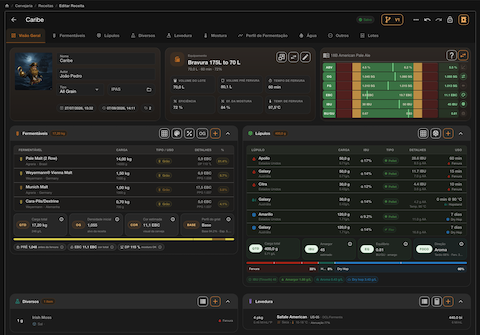
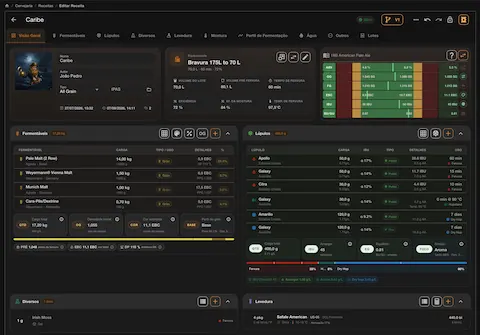
more improvements for better code

diff --git a/src/views/MarketingPage.vue b/src/views/MarketingPage.vue
@@ -10,7 +10,7 @@ import { localeCode, localeFromPath, localizedPath } from '../types'
 import ProductScreenshotPlaceholder from '../components/ProductScreenshotPlaceholder.vue'
 import PricingPlanCards from '../components/PricingPlanCards.vue'
 import logo from '../assets/logo-brew-right-full.webp'
-import brewStamp from '../assets/logo.webp'
+import brewStamp from '../assets/logo-stamp.webp'
 import recipeCardArt from '../assets/back-recipe.webp'
 import inventoryCardArt from '../assets/back-inventory.webp'
 import profileCardArt from '../assets/back-profile.webp'

diff --git a/src/components/MarketingHeader.vue b/src/components/MarketingHeader.vue
@@ -6,7 +6,7 @@ import { useI18n } from 'vue-i18n'
 import { localizedPath, localeLabels, type Locale } from '../types'
 import { brewPilotApp } from '../utils/connector'
 import { trackMarketingEvent } from '../utils/analytics'
-import logo from '../assets/logo-brew-right-full.webp'
+import logo from '../assets/logo-compact.webp'
 
 const route = useRoute()
 const { t } = useI18n()

diff --git a/src/components/MarketingFooter.vue b/src/components/MarketingFooter.vue
@@ -6,7 +6,7 @@ import { useRoute } from 'vue-router'
 import { useI18n } from 'vue-i18n'
 import { localizedPath, localeLabels, type Locale } from '../types'
 import { brewPilotApp } from '../utils/connector'
-import logo from '../assets/logo-brew-right-full.webp'
+import logo from '../assets/logo-compact.webp'
 
 const route = useRoute()
 const { t } = useI18n()

diff --git a/vite.config.ts b/vite.config.ts
@@ -4,6 +4,9 @@ import { defineConfig } from 'vite'
 // https://vite.dev/config/
 export default defineConfig({
   plugins: [vue()],
+  build: {
+    assetsInlineLimit: 0,
+  },
   // @ts-expect-error vite-ssg consumes this Vite config extension.
   ssgOptions: {
     includedRoutes: () => [
